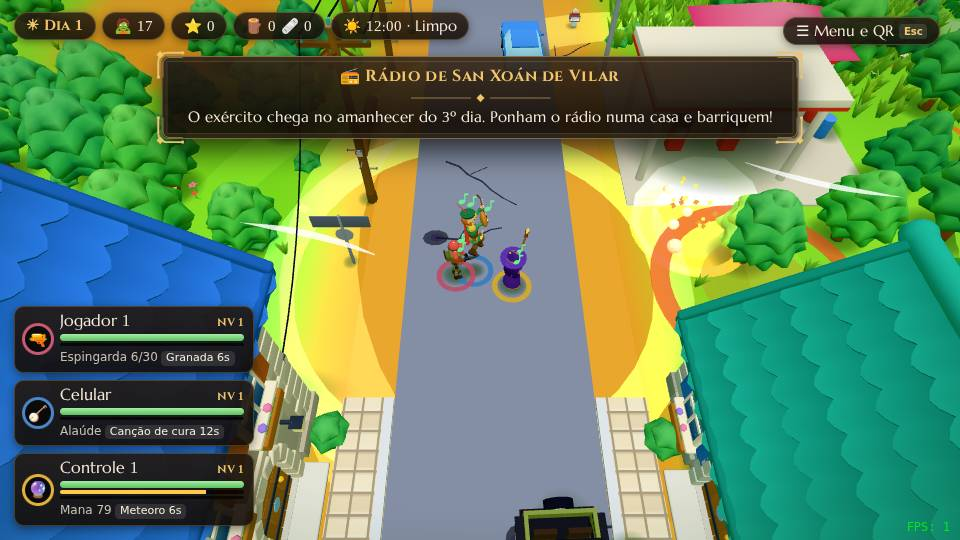
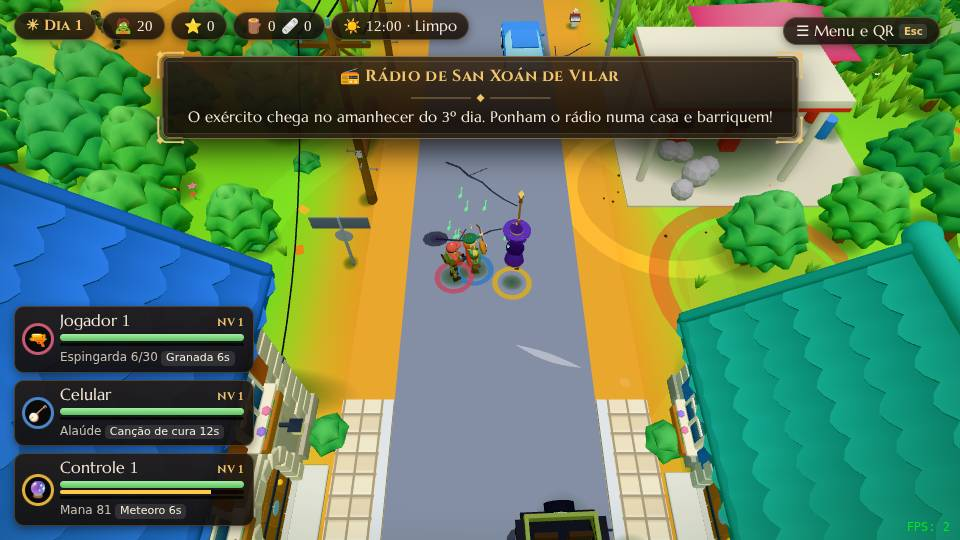
Noite mais leve: mapa de luz no lugar de somar luzes em cada ponto; casas acesas sem PointLight
A 1ª versão somava até 14 luzes por ponto da tela e tinha 3 PointLight fixas: no navegador sem
placa de vídeo o quadro quase dobrava de tempo. Agora as luzes são pintadas numa imagem pequena
vista de cima (uma por tela) e o shader consulta uma vez. Mesmo visual; mundo e replay iguais.

diff --git a/src/engine/render/vision.js b/src/engine/render/vision.js
@@ -2,49 +2,37 @@ import * as THREE from 'three'
 
 // =====================================================================================
 //  Visão noturna: à noite, o que está longe de quem olha e de toda luz fica escuro (sobra um pouco: VISION.floor).
-//  Vê-se em volta de cada "olho" (círculo), no cone de cada lanterna e perto das luzes da lista (postes, salas acesas).
-//  Barato: é um trecho no shader de TODO MeshLambertMaterial (o protótipo é trocado aqui, uma vez) que multiplica a
-//  luz recebida; o brilho próprio (emissive) e os materiais sem luz (vidros acesos, efeitos) não escurecem.
-//  O jogo preenche os números a cada quadro; com dark = 0 (dia) o trecho é pulado.
+//  Vê-se em volta de cada "olho" (círculo), no cone de cada lanterna e perto das luzes (postes, salas acesas).
+//  Barato: as luzes são pintadas num MAPA DE LUZ pequeno, visto de cima (uma imagem por tela, PaintVision), e o shader de
+//  TODO MeshLambertMaterial (o protótipo é trocado aqui, uma vez) só consulta essa imagem uma vez por ponto e multiplica a
+//  luz recebida. (A 1ª versão somava até 14 luzes em cada ponto da tela: no navegador sem placa de vídeo o quadro quase
+//  dobrava de tempo.) O brilho próprio (emissive) e os efeitos (tiros, vidros acesos) não escurecem.
+//  Com dark = 0 (dia) o trecho é pulado e o mapa nem é pintado.
 // =====================================================================================
 
-const EYES = 4, GLOWS = 10
-const v4 = (n) => Array.from({ length: n }, () => new THREE.Vector4())
+const SIZE = 256 // px do mapa de luz
+const SPAN = 150 // metros que ele cobre (quadrado em volta do meio da tela; fora dele = escuro)
 export const VISION = {
   dark: { value: 0 }, // 0 = nada escurece (dia) · 1 = noite fechada
   floor: { value: 0.15 }, // quanto de luz sobra longe de tudo (0 = preto)
-  eyes: { value: v4(EYES) }, // (x, z, raio do círculo (0 = sem olho), altura dos pés)
-  beams: { value: v4(EYES) }, // lanterna de cada olho: (direção x, direção z, alcance (0 = apagada), cosseno da meia-abertura)
-  glows: { value: v4(GLOWS) }, // luzes que deixam ver: (x, z, raio (0 = nenhuma), altura máxima: acima disso, escuro — ex.: o telhado)
-  warm: { value: new THREE.Vector3(0.32, 0.24, 0.1) }, // tom quente que a lanterna soma
+  map: { value: null }, // mapa de luz: R = em volta de quem olha · G = lanternas e faróis · B = postes e casas acesas
+  box: { value: new THREE.Vector4(0, 0, 1 / SPAN, 0) }, // (x, z do meio do mapa, 1/tamanho, altura do chão de quem olha)
+  warm: { value: new THREE.Vector3(0.32, 0.24, 0.1) }, // tom quente que a lanterna e as luzes somam
 }
-export const VISION_SLOTS = { eyes: EYES, glows: GLOWS }
 
-// uniforms + vis_see(p): 0 (escuro) .. 1 (visto) num ponto do mundo; vis_beam = quanto está dentro de uma lanterna
+// uniforms + vis_factor(p): fator que multiplica a cor num ponto do mundo (1 = como de dia).
+// vis_beam / vis_glow = quanto o ponto está dentro de uma lanterna / de uma luz de poste ou casa (não sobem até o telhado)
 const DECL = `
-uniform float uVisDark; uniform float uVisFloor; uniform vec4 uVisEye[${EYES}]; uniform vec4 uVisBeam[${EYES}]; uniform vec4 uVisGlow[${GLOWS}]; uniform vec3 uVisWarm;
-float vis_beam = 0.0;
+uniform float uVisDark; uniform float uVisFloor; uniform sampler2D uVisMap; uniform vec4 uVisBox; uniform vec3 uVisWarm;
+float vis_beam = 0.0; float vis_glow = 0.0;
 float vis_see(vec3 p) {
-  float see = 0.0; vis_beam = 0.0; vec2 q = p.xz;
-  for (int i = 0; i < ${EYES}; i++) {
-    if (uVisEye[i].z <= 0.0) continue;
-    vec2 d = q - uVisEye[i].xy; float l = length(d);
-    see = max(see, 1.0 - smoothstep(uVisEye[i].z * 0.45, uVisEye[i].z, l));
-    vec4 b = uVisBeam[i];
-    if (b.z > 0.0) {
-      float c = dot(d / max(l, 0.001), b.xy);
-      float k = smoothstep(b.w, mix(b.w, 1.0, 0.45), c) * (1.0 - smoothstep(b.z * 0.55, b.z, l)) * smoothstep(0.2, 1.2, l)
-              * (1.0 - smoothstep(2.6, 4.2, p.y - uVisEye[i].w)); // não sobe até o telhado
-      vis_beam = max(vis_beam, k); see = max(see, k);
-    }
-  }
-  for (int i = 0; i < ${GLOWS}; i++) {
-    if (uVisGlow[i].z <= 0.0 || p.y > uVisGlow[i].w) continue;
-    see = max(see, 1.0 - smoothstep(uVisGlow[i].z * 0.5, uVisGlow[i].z, length(q - uVisGlow[i].xy)));
-  }
-  return see;
+  vec3 m = texture2D(uVisMap, (p.xz - uVisBox.xy) * uVisBox.z + 0.5).rgb;
+  m = m * m * (3.0 - 2.0 * m); // borda macia
+  float up = p.y - uVisBox.w;
+  vis_beam = m.g * (1.0 - smoothstep(2.6, 4.2, up));
+  vis_glow = m.b * (1.0 - smoothstep(3.0, 3.8, up));
+  return max(m.r, max(vis_beam, vis_glow));
 }
-// fator que multiplica a cor num ponto do mundo (1 = como de dia)
 float vis_factor(vec3 p) { return uVisDark > 0.0 ? mix(1.0, mix(uVisFloor, 1.0, vis_see(p)), uVisDark) : 1.0; }
 `
 // depois das luzes do Lambert: posição no mundo a partir da posição na câmera (sem varying novo)
@@ -52,16 +40,15 @@ const APPLY = `
 if (uVisDark > 0.0) {
   vec3 vis_w = cameraPosition + transpose(mat3(viewMatrix)) * (-vViewPosition);
   float vis_k = vis_factor(vis_w);
-  reflectedLight.indirectDiffuse += reflectedLight.indirectDiffuse * uVisWarm * vis_beam * uVisDark * 3.0;
+  reflectedLight.indirectDiffuse += reflectedLight.indirectDiffuse * uVisWarm * (vis_beam * 3.0 + vis_glow * 3.0) * uVisDark;
   reflectedLight.directDiffuse *= vis_k; reflectedLight.indirectDiffuse *= vis_k;
 }
 `
 function bind(sh) {
   sh.uniforms.uVisDark = VISION.dark
   sh.uniforms.uVisFloor = VISION.floor
-  sh.uniforms.uVisEye = VISION.eyes
-  sh.uniforms.uVisBeam = VISION.beams
-  sh.uniforms.uVisGlow = VISION.glows
+  sh.uniforms.uVisMap = VISION.map
+  sh.uniforms.uVisBox = VISION.box
   sh.uniforms.uVisWarm = VISION.warm
 }
 
@@ -98,3 +85,68 @@ export function VisionUnlit(sh, night = 0.2) {
 }
 
 THREE.MeshLambertMaterial.prototype.onBeforeCompile = function (sh) { VisionShader(sh) }
+
+// ---------------------------------------------------------------- o mapa de luz (uma imagem por tela, a cada quadro, só à noite)
+let ctx = null, tex = null
+function init() {
+  const c = document.createElement('canvas')
+  c.width = c.height = SIZE
+  ctx = c.getContext('2d')
+  tex = new THREE.CanvasTexture(c)
+  tex.flipY = false // linha 0 da imagem = menor z
+  tex.generateMipmaps = false
+  tex.minFilter = tex.magFilter = THREE.LinearFilter
+  tex.colorSpace = THREE.NoColorSpace
+  VISION.map.value = tex
+}
+// mancha redonda: cheia até r0, some em r1 (metros). level 0..1 = força
+function blob(x, z, r0, r1, rgb, level = 1) {
+  const g = ctx.createRadialGradient(x, z, r0, x, z, r1), v = Math.round(255 * Math.min(1, Math.max(0, level)))
+  g.addColorStop(0, `rgb(${rgb[0] * v},${rgb[1] * v},${rgb[2] * v})`)
+  g.addColorStop(1, '#000')
+  ctx.fillStyle = g
+  ctx.beginPath(); ctx.arc(x, z, r1, 0, Math.PI * 2); ctx.fill()
+}
+// Pinta o mapa de UMA tela: chamar logo antes de desenhar essa tela (com a tela dividida, uma vez para cada).
+//  x, z = meio da tela no mundo · y = altura do chão de quem olha
+//  eyes  = [{ x, z, r (círculo em volta), dx, dz (para onde aponta a lanterna), range (0 = apagada), half (meia-abertura, rad) }]
+//  glows = [{ x, z, k (0..1: força; pisca-pisca do gerador, poste esquentando) } + r (redonda: poste) ou hw, hd (retângulo: casa acesa)]
+export function PaintVision(x, z, y, eyes, glows) {
+  if (!ctx) init()
+  const k = SIZE / SPAN, half = SPAN / 2
+  ctx.setTransform(1, 0, 0, 1, 0, 0)
+  ctx.globalCompositeOperation = 'source-over'
+  ctx.fillStyle = '#000'
+  ctx.fillRect(0, 0, SIZE, SIZE)
+  ctx.setTransform(k, 0, 0, k, (half - x) * k, (half - z) * k) // daqui em diante, desenha em metros do mundo
+  ctx.globalCompositeOperation = 'lighten' // cada cor (R, G, B) guarda o maior valor: os três canais não se misturam
+  for (const g of glows) {
+    const r = g.r ?? Math.max(g.hw, g.hd) + 2
+    if (Math.abs(g.x - x) > half + r || Math.abs(g.z - z) > half + r) continue
+    if (g.r) { blob(g.x, g.z, g.r * 0.5, g.r, [0, 0, 1], g.k ?? 1); continue }
+    // casa acesa: o retângulo da casa com a borda desfocada (um pouco de luz vaza para fora)
+    ctx.filter = 'blur(2px)'
+    ctx.fillStyle = `rgb(0,0,${Math.round(255 * Math.min(1, Math.max(0, g.k ?? 1)))})`
+    ctx.fillRect(g.x - g.hw - 0.4, g.z - g.hd - 0.4, g.hw * 2 + 0.8, g.hd * 2 + 0.8)
+    ctx.filter = 'none'
+  }
+  for (const e of eyes) {
+    if (Math.abs(e.x - x) > half + 25 || Math.abs(e.z - z) > half + 25) continue
+    blob(e.x, e.z, e.r * 0.45, e.r, [1, 0, 0])
+    if (!(e.range > 0)) continue
+    // cone da lanterna: cheio até 55% do alcance, some no fim; bordas desfocadas
+    const a = Math.atan2(e.dz, e.dx), g = ctx.createRadialGradient(e.x, e.z, e.range * 0.55, e.x, e.z, e.range)
+    g.addColorStop(0, '#0f0'); g.addColorStop(1, '#000')
+    ctx.fillStyle = g
+    ctx.filter = 'blur(1.5px)'
+    ctx.beginPath(); ctx.moveTo(e.x, e.z); ctx.arc(e.x, e.z, e.range, a - e.half, a + e.half); ctx.closePath(); ctx.fill()
+    ctx.filter = 'none'
+  }
+  // moldura preta: fora do mapa a imagem repete a borda, que tem de ser escura
+  ctx.setTransform(1, 0, 0, 1, 0, 0)
+  ctx.globalCompositeOperation = 'source-over'
+  ctx.strokeStyle = '#000'; ctx.lineWidth = 3
+  ctx.strokeRect(0, 0, SIZE, SIZE)
+  VISION.box.value.set(x, z, 1 / SPAN, y)
+  tex.needsUpdate = true
+}

diff --git a/src/shared/worldgen/house-lights.js b/src/shared/worldgen/house-lights.js
@@ -8,14 +8,13 @@ import { LampTarget } from './streetlights'
 //  Barato, como os postes:
 //  - vidro aceso e a luz que sai pela janela no chão (com a sombra da cruz da janela): instanciados por chunk,
 //    shader aditivo de poucas linhas (2 draw calls por chunk com casa acesa)
-//  - luz de verdade (PointLight) só num punhado fixo (POOL) que vai para as casas acesas mais perto dos jogadores:
-//    com o telhado aberto, o cômodo aparece iluminado; a quantidade de luzes nunca muda (sem recompilar shaders)
+//  - o cômodo aceso (com o telhado aberto) é clareado pela visão noturna (engine/render/vision.js): a casa entra no mapa de luz.
+//    (A 1ª versão usava 3 PointLight fixas: pesavam ~15% de cada quadro, de dia e de noite.)
 //  Algumas piscam (gerador falhando): a casa toda pisca junto.
 // =====================================================================================
 
 const SHARE = 0.2 // ~1 em 5 casas/prédios acesos
 const FLICKER = 0.25 // das acesas, quantas piscam
-const POOL = 3, POOL_I = 9, POOL_RANGE = 9, POOL_DECAY = 1.6, POOL_NEAR = 28
 const WARM = new THREE.Color(1.0, 0.7, 0.36)
 const night = { value: 0 } // 0 = apagado, 1 = aceso (todos os shaders abaixo)
 const hide = { value: Array.from({ length: 4 }, () => new THREE.Vector4()) } // casas com alguém dentro (x0, z0, x1, z1): o telhado abre e o vidro aceso some
@@ -62,7 +61,7 @@ const PANE_GEO = new THREE.PlaneGeometry(1, 1) // virado para +z
 const SPILL_GEO = new THREE.PlaneGeometry(1, 1).rotateX(-Math.PI / 2).translate(0, 0, 0.5) // deitado; z = 0 na parede, 1 longe
 
 // casas acesas de um chunk: recebe a lista de casas do gerador ({ x, z, y, cs, sn, pr }) e devolve as acesas no mundo:
-// { x, z, y, r (raio para a visão), ly (altura da luz), fl (fase do pisca), panes: [{ x, y, z, nx, nz, w, h, k }] }
+// { x, z, y, hw, hd (meio tamanho, para a visão), fl (fase do pisca), panes: [{ x, y, z, nx, nz, w, h, k }] }
 export function LitHouses(list) {
   const out = []
   for (const b of list) {
@@ -80,9 +79,9 @@ export function LitHouses(list) {
       panes.push({ x: wx, z: wz, y: b.y + o.y, nx: o.nx * b.cs + o.nz * b.sn, nz: -o.nx * b.sn + o.nz * b.cs, w: o.w, h: o.h, k: o.k })
     }
     if (!panes.length) continue
-    const low = panes.reduce((m, p) => Math.min(m, p.k), 9)
     out.push({
-      x: b.x, z: b.z, y: b.y, r: Math.max(b.pr.w, b.pr.d) / 2 + 2.5, ly: panes.find((p) => p.k === low).y + 0.7,
+      x: b.x, z: b.z, y: b.y, // hw, hd = meia largura e meia profundidade no mundo (para a visão noturna clarear o cômodo)
+      hw: (Math.abs(b.cs) * b.pr.w + Math.abs(b.sn) * b.pr.d) / 2, hd: (Math.abs(b.sn) * b.pr.w + Math.abs(b.cs) * b.pr.d) / 2,
       fl: hash(kx, kz, 7600) < FLICKER ? 0.05 + hash(kx, kz, 7601) * 0.95 : 0, panes,
     })
   }
@@ -116,55 +115,26 @@ export function BuildHouseLightFx(g, houses, dispose) {
   })
 }
 
-export function CreateHouseLights(scene) {
-  const pool = []
-  for (let i = 0; i < POOL; i++) {
-    const l = new THREE.PointLight(WARM, 0, POOL_RANGE, POOL_DECAY)
-    l.position.set(0, -50, 0)
-    scene.add(l)
-    pool.push(l)
-  }
+export function CreateHouseLights() {
   const loaded = new Set() // casas acesas dos chunks carregados (o jogo põe e tira junto com os chunks)
-  const glows = [] // casas com luz de verdade agora: { x, z, r } (a visão noturna deixa ver em volta delas)
-  let scanT = 0
   const hz = (a, b) => { const v = Math.sin(a * 12.9898 + b * 78.233) * 43758.5453; return v - Math.floor(v) }
+  // pisca junto com as janelas (mesma conta do shader, aproximada)
+  const flick = (h) => { if (!(h.fl > 0)) return 1; const n = hz(Math.floor(wind.value * 7), h.fl * 97); return n > 0.86 ? 0.15 : n > 0.74 ? 0.55 : 1 }
   return {
-    glows,
     add(list) { if (list && list.length) loaded.add(list) },
     remove(list) { loaded.delete(list) },
     reset() { loaded.clear() },
-    // time = hora do clima (0..1), over = céu fechado, focus = jogadores (ou o centro do menu), inside = casas com alguém dentro
-    update(dt, time, over, focus, inside = []) {
+    // casas acesas a até r de (x, z), para a visão noturna (deixa ver e clareia o cômodo): { x, z, hw, hd, k (força, com o pisca) } entram em out
+    around(x, z, r, out) {
+      if (night.value <= 0) return
+      for (const list of loaded) for (const h of list) if (Math.abs(h.x - x) < r && Math.abs(h.z - z) < r) out.push({ x: h.x, z: h.z, hw: h.hw, hd: h.hd, k: night.value * flick(h) })
+    },
+    // time = hora do clima (0..1), over = céu fechado, inside = casas com alguém dentro (o telhado abre e o vidro aceso some)
+    update(dt, time, over, inside = []) {
       hide.value.forEach((v, i) => { const b = inside[i]; if (b) v.set(b.x0 - 0.6, b.z0 - 0.6, b.x1 + 0.6, b.z1 + 0.6); else v.set(0, 0, 0, 0) })
       night.value += (LampTarget(time, over) - night.value) * (1 - Math.exp(-dt * 1.2))
       if (night.value < 0.002) night.value = 0
-      const on = night.value > 0
-      PaneMat.visible = SpillMat.visible = on
-      if ((scanT -= dt) <= 0) {
-        scanT = 0.3
-        const cand = []
-        if (on) for (const list of loaded) for (const h of list) {
-          let d = Infinity
-          for (const f of focus) d = Math.min(d, (f.x - h.x) ** 2 + (f.z - h.z) ** 2)
-          if (d < POOL_NEAR * POOL_NEAR) cand.push([d, h])
-        }
-        cand.sort((a, b) => a[0] - b[0])
-        glows.length = 0
-        pool.forEach((l, i) => {
-          const h = cand[i] && cand[i][1]
-          l.userData.h = h || null
-          if (!h) return
-          l.position.set(h.x, h.ly, h.z)
-          glows.push({ x: h.x, z: h.z, r: h.r, top: h.ly + 0.8 }) // até o teto do cômodo aceso (o telhado fica escuro)
-        })
-      }
-      // pisca junto com as janelas (mesma conta do shader, aproximada)
-      for (const l of pool) {
-        const h = l.userData.h
-        let f = 1
-        if (h && h.fl > 0) { const n = hz(Math.floor(wind.value * 7), h.fl * 97); f = n > 0.86 ? 0.15 : n > 0.74 ? 0.55 : 1 }
-        l.intensity = h ? POOL_I * night.value * f : 0
-      }
+      PaneMat.visible = SpillMat.visible = night.value > 0
     },
   }
 }

diff --git a/src/games/survivor/night.js b/src/games/survivor/night.js
@@ -1,7 +1,7 @@
-// Noite estilo Zomboid (só aparência: os zumbis enxergam igual). A cada quadro preenche a visão noturna do motor
-// (engine/render/vision.js): cada jogador vê um círculo em volta e, com a lanterna acesa, um cone para onde mira
-// (no carro: os faróis, para a frente); postes e casas acesas perto dos jogadores também deixam ver em volta deles.
-import { VISION, VISION_SLOTS } from '../../engine/render/vision'
+// Noite estilo Zomboid (só aparência: os zumbis enxergam igual). Cada jogador vê um círculo em volta e, com a lanterna
+// acesa, um cone para onde mira (no carro: os faróis, para a frente); postes e casas acesas também deixam ver em volta deles.
+// Isso vira um mapa de luz por tela (engine/render/vision.js), pintado logo antes de cada tela ser desenhada.
+import { VISION, PaintVision } from '../../engine/render/vision'
 import { BALANCE } from './config/balance'
 
 const N = BALANCE.night
@@ -11,27 +11,31 @@ const amount = (t) => (t < 0.5 ? 1 - sm(0.22, 0.27, t) : sm(0.745, 0.79, t))
 
 export function CreateNight({ streetLights, houseLights }) {
   let dark = 0
+  const eyes = [], glows = []
   return {
-    // players = jogadores da partida; time = hora do clima; playing = false no menu (lá nada escurece)
+    // a cada quadro: quão escuro está e de onde cada jogador enxerga. playing = false no menu (lá nada escurece)
     update(dt, players, time, playing) {
       const target = playing ? amount(time) * N.dark : 0
       dark += (target - dark) * (1 - Math.exp(-dt * 2))
       VISION.dark.value = dark < 0.003 ? 0 : dark
       VISION.floor.value = N.floor
-      const eyes = VISION.eyes.value, beams = VISION.beams.value, cos = Math.cos(N.lamp.angle)
-      for (let i = 0; i < VISION_SLOTS.eyes; i++) {
-        const p = players[i]
-        if (!p) { eyes[i].z = 0; beams[i].z = 0; continue }
-        eyes[i].set(p.x, p.z, N.circle, p.gy || 0)
+      eyes.length = 0
+      if (!VISION.dark.value) return
+      for (const p of players) {
         const car = p.vehicle, a = car ? car.yaw : p.aimAngle
-        beams[i].set(Math.sin(a), Math.cos(a), car ? N.lamp.car : p.lamp && !p.dead ? N.lamp.range : 0, cos)
+        eyes.push({ x: p.x, z: p.z, r: N.circle, dx: Math.sin(a), dz: Math.cos(a), range: car ? N.lamp.car : p.lamp && !p.dead ? N.lamp.range : 0, half: N.lamp.angle })
       }
-      const glows = VISION.glows.value, list = [...houseLights.glows, ...streetLights.glows]
-      for (let i = 0; i < VISION_SLOTS.glows; i++) {
-        const g = list[i]
-        if (g) glows[i].set(g.x, g.z, g.r, g.top)
-        else glows[i].z = 0
-      }
+    },
+    // antes de desenhar cada tela: o mapa de luz em volta dela (members = jogadores dessa tela). De dia não faz nada
+    paint(members) {
+      if (!VISION.dark.value || !members.length) return
+      let x = 0, z = 0, y = 0
+      for (const p of members) { x += p.x; z += p.z; y += p.gy || 0 }
+      x /= members.length; z /= members.length; y /= members.length
+      glows.length = 0
+      houseLights.around(x, z, 90, glows)
+      streetLights.around(x, z, 90, glows)
+      PaintVision(x, z, y, eyes, glows)
     },
   }
 }

diff --git a/src/games/survivor/main.js b/src/games/survivor/main.js
@@ -73,7 +73,7 @@ export async function LoadGame() {
   const climate = CreateClimate(scene, Light(scene, renderer), { daySeconds: BALANCE.day.seconds }) // dia/noite, chuva, neblina, vento
   const entityShadows = CreateEntityShadows(scene)
   const streetLights = CreateStreetLights(scene) // postes acendem à noite, semáforos trocam de cor
-  const houseLights = CreateHouseLights(scene) // algumas casas acesas à noite (vidro, luz da janela no chão, luz dentro)
+  const houseLights = CreateHouseLights() // algumas casas acesas à noite (vidro, luz da janela no chão, cômodo claro)
   const night = CreateNight({ streetLights, houseLights }) // noite escura: cada jogador vê em volta e no cone da lanterna
   // mapa em pedaços: casas e postes entram e saem junto com cada chunk; os caches do mundo esquecem o que ficou para trás
   // (para recomeçar em outro lugar: game.clear(), chunks.reset(), ResetColliders/ResetBuildings/ResetSignAtlas, streetLights.reset(), houseLights.reset())
@@ -242,7 +242,7 @@ export async function LoadGame() {
     climate.update(gdt, list.length ? list.filter((p) => !p.dead) : [{ x: 8, z: -6 }])
     entityShadows.update(list, game.enemies, game.vehicles.list)
     streetLights.update(gdt, climate.time, climate.weather.over, pts)
-    houseLights.update(gdt, climate.time, climate.weather.over, pts, list.map((p) => BuildingAt(p.x, p.z)).filter(Boolean))
+    houseLights.update(gdt, climate.time, climate.weather.over, list.map((p) => BuildingAt(p.x, p.z)).filter(Boolean))
     night.update(dt, list, climate.time, phase === 'playing')
     UpdateDoors(gdt, list, game.enemies) // portas abrem quando alguém chega perto
     sound.update(gdt, game, climate, streetLights, phase === 'lobby')
@@ -264,7 +264,7 @@ export async function LoadGame() {
       chunks.update(pts, views.length > 1 ? 2 : 3)
       chunks.process(1)
       hud.update(dt)
-      split.render(views, (v) => { UpdateBuildings(v.group.members); climate.view(v.cam) }) // cada tela mostra o andar de quem está nela (telhado some)
+      split.render(views, (v) => { UpdateBuildings(v.group.members); climate.view(v.cam); night.paint(v.group.members) }) // cada tela mostra o andar de quem está nela (telhado some)
     }
     Fps()
   }

diff --git a/src/shared/worldgen/streetlights.js b/src/shared/worldgen/streetlights.js
@@ -111,14 +111,17 @@ export function CreateStreetLights(scene) {
     spots.push(s)
   }
   let t = 0, scanT = 0, near = Infinity
-  const glows = [] // postes com luz de verdade agora: { x, z, r } (a visão noturna deixa ver embaixo deles)
   const cand = []
   const loaded = new Set() // postes dos chunks carregados (o jogo põe e tira junto com os chunks)
   return {
     add(list) { if (list && list.length) loaded.add(list) },
     remove(list) { loaded.delete(list) },
     reset() { loaded.clear() },
-    glows,
+    // postes acesos a até r de (x, z), para a visão noturna: { x, z, r, k (quão aceso) } entram em out
+    around(x, z, r, out) {
+      if (night.value <= 0) return
+      for (const list of loaded) for (const l of list) if (l.spot && Math.abs(l.x - x) < r && Math.abs(l.z - z) < r) out.push({ x: l.x, z: l.z, r: l.r * 1.15, k: night.value })
+    },
     // para o som: quão aceso (0..1) e a distância do poste aceso mais perto de alguém
     get lit() { return night.value },
     get near() { return near },
@@ -145,12 +148,10 @@ export function CreateStreetLights(scene) {
         }
         cand.sort((a, b) => a[0] - b[0])
         near = cand.length ? Math.sqrt(cand[0][0]) : Infinity
-        glows.length = 0
         spots.forEach((s, i) => {
           const l = cand[i] && cand[i][1]
           if (!l) { s.userData.l = null; return }
           s.userData.l = l
-          glows.push({ x: l.x, z: l.z, r: l.r * 1.15, top: l.y + 0.5 })
           s.position.set(l.x, l.y - 0.05, l.z)
           s.target.position.set(l.x, l.gy, l.z)
         })

diff --git a/README.md b/README.md
@@ -149,8 +149,9 @@ Dentro do carro valem os **faróis** (20 m para a frente). Postes e casas acesas
 enxergam e ouvem igual (9 m à noite), com ou sem lanterna. **1 em cada 5 casas** tem luz (sempre as mesmas; algumas piscam, como gerador
 falhando): o vidro das janelas fica aceso, a luz sai pela janela e desenha no chão a sombra da cruz da janela, e por dentro o cômodo fica
 iluminado. Poças, placas, água e rabiscos de vento escurecem junto (antes ficavam acesos no escuro). Números em `balance.js · night`.
-Código: `src/engine/render/vision.js` (o escuro, num trecho do shader de todo material), `src/shared/worldgen/house-lights.js` (casas acesas)
-e `src/games/survivor/night.js` (liga os jogadores, postes e casas à visão). No menu inicial nada escurece.
+Código: `src/engine/render/vision.js` (o escuro: um mapa de luz pequeno, visto de cima, que o shader de todo material consulta uma vez por
+ponto — barato), `src/shared/worldgen/house-lights.js` (casas acesas) e `src/games/survivor/night.js` (pinta o mapa de cada tela com os
+jogadores, as lanternas, os postes e as casas). No menu inicial nada escurece.
 
 ## Visual (estilo diorama)
 Cores por vértice + malhas fundidas (poucos draw calls), balanço do vento na GPU, sombras de contato falsas (sem shadow map), tone mapping Neutral e desfoque "miniatura" via CSS (tecla **T** liga/desliga). Paleta e luz em `src/engine/render/style.js`, `src/shared/worldgen/assets.js` e `src/engine/render/light.js`.
